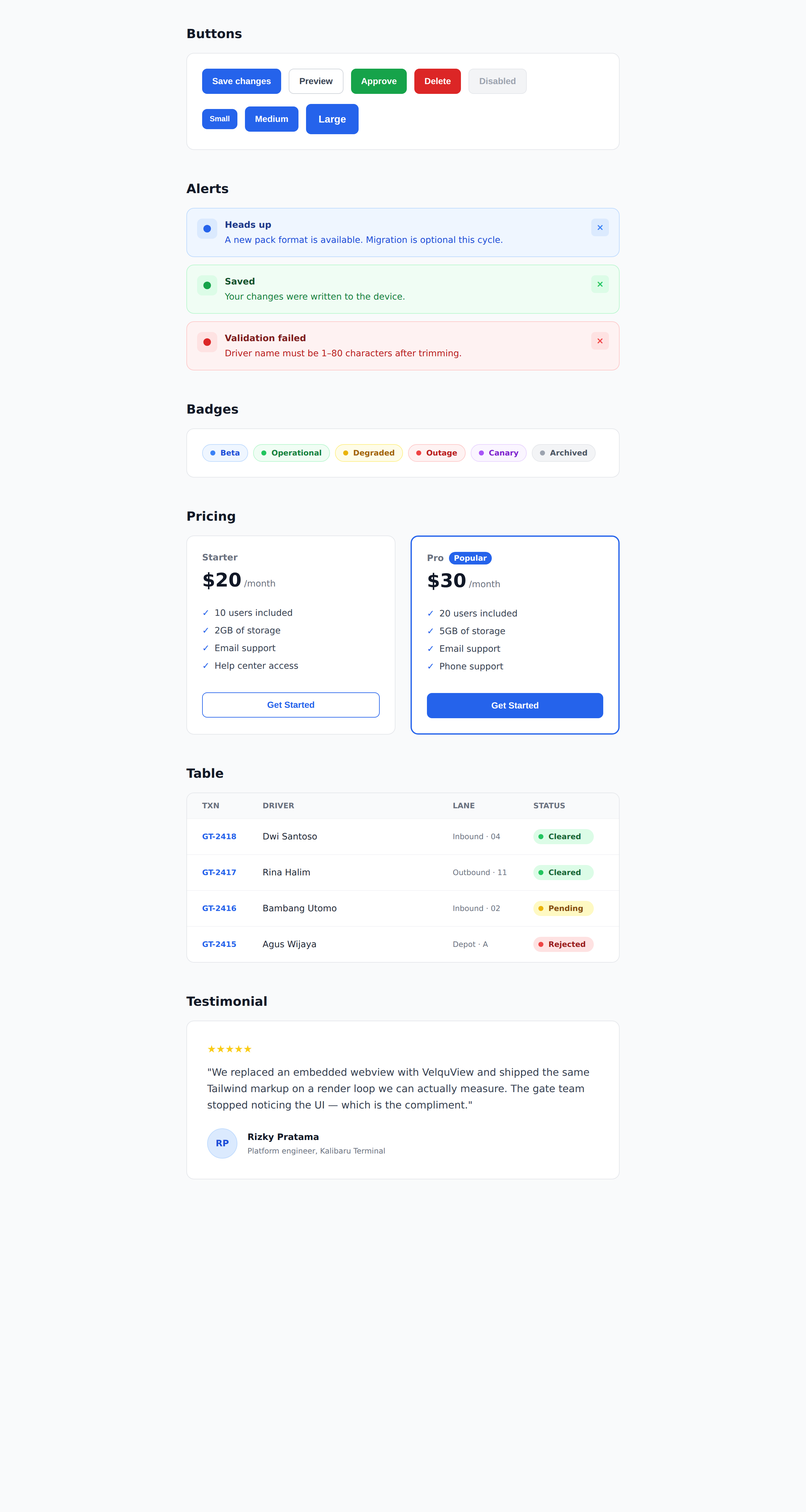
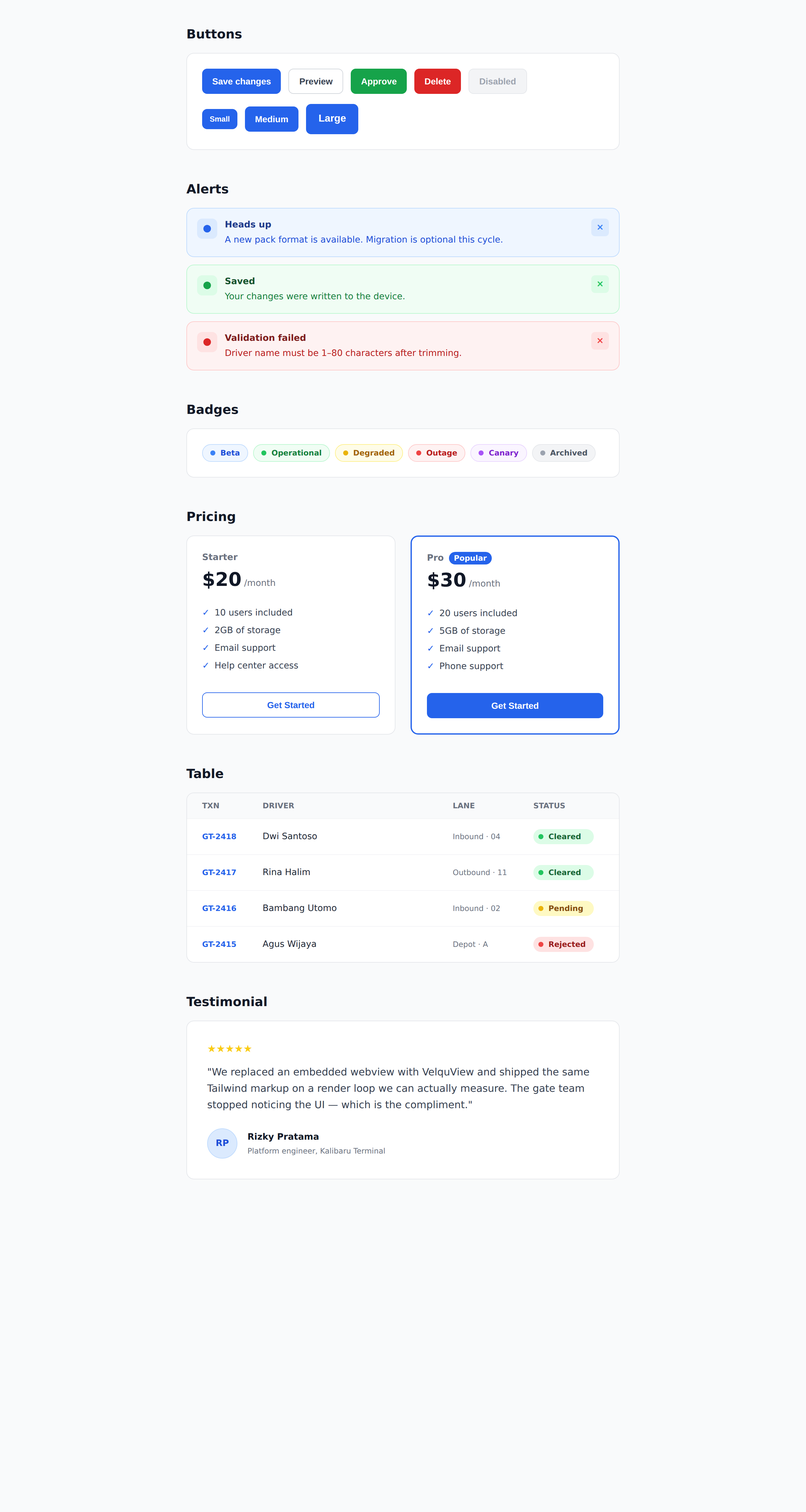
buttons: add text-center (v0 has no UA button alignment) + labeled compare frames
- login/ab/chat/live: every <button> now carries text-center — Chromium
  centers button text via its UA stylesheet, VelquView v0 does not, so
  labels sat at the left edge in the desktop renders (owner-reported on
  the sign-in card). No-op in the browser, files stay shared.
- Re-rendered login/ab/chat at 2x both engines (tools/ab-shot.mjs,
  committed: builds the browser copy, compiles tw v3.4.17 + parity base,
  shoots @2x). Verified: velqu old-vs-new differs ONLY inside button
  bands; browser glyph positions identical (ink corr 1.000 @ shift 0);
  login label now centers at +0.5px (browser +1.5px).
- compare.png rebuilt for all five sets with a labeled template:
  BROWSER (left) / DESKTOP (right) header bars.
- site: split window-frame title bar over every compare slider (hero +
  5 samples); seam tracks --pos with the divider (verified 793==793),
  traffic dots = browser side, violet gem = desktop side; mobile shows
  short labels, 0px overflow.
- cookbook: button-alignment row in the adaptation table; README: A/B
  sets + ab-shot.mjs documented.

diff --git a/site/samples.html b/site/samples.html
@@ -90,12 +90,16 @@
           </div>
           <span class="pill pill-green">geometry identical to the pixel</span>
         </div>
+<div class="ab-win">
+          <div class="ab-win-bar" aria-hidden="true">
+            <div class="ab-win-half ab-win-b"><span class="ab-dots"><i></i><i></i><i></i></span><span class="ab-win-t">browser<span class="ab-win-x"> · chromium + tailwind v3.4</span></span></div>
+            <div class="ab-win-half ab-win-v"><span class="ab-win-t"><span class="ab-win-x">velquview native ·&nbsp;</span>desktop app</span><span class="ab-win-gem"></span></div>
+          </div>
         <div class="ab-slider" style="--ar: 1280 / 800" role="slider" tabindex="0" aria-label="Sign-in card: Chromium versus VelquView" aria-valuemin="0" aria-valuemax="100" aria-valuenow="50">
           <img class="ab-base" src="assets/ab-login-browser.png" alt="Sign-in card rendered by Chromium" width="2560" height="1600" draggable="false" loading="lazy" decoding="async">
           <div class="ab-overlay"><img src="assets/ab-login-velqu.png" alt="The same card rendered by VelquView" width="2560" height="1600" draggable="false" loading="lazy" decoding="async"></div>
           <div class="ab-divider"><div class="ab-handle"><svg class="w-4 h-4" fill="none" stroke="currentColor" stroke-width="2.5" viewBox="0 0 24 24"><path d="M8 7l-5 5 5 5M16 7l5 5-5 5"/></svg></div></div>
-          <div class="ab-tag ab-tag-l">CHROMIUM · real Tailwind v3.4</div>
-          <div class="ab-tag ab-tag-r">VELQUVIEW · native v0</div>
+        </div>
         </div>
         <p class="mt-3 text-sm text-slate-500">Card at exactly x 450–830, y 204–594 in both engines. <a class="link" href="https://github.com/ther12k/velqu-showcase/blob/main/login/compare.png">Full side-by-side on GitHub →</a></p>
       </div>
@@ -109,12 +113,16 @@
           </div>
           <span class="pill pill-green">4 of 6 sections at 0px drift</span>
         </div>
+<div class="ab-win">
+          <div class="ab-win-bar" aria-hidden="true">
+            <div class="ab-win-half ab-win-b"><span class="ab-dots"><i></i><i></i><i></i></span><span class="ab-win-t">browser<span class="ab-win-x"> · chromium + tailwind v3.4</span></span></div>
+            <div class="ab-win-half ab-win-v"><span class="ab-win-t"><span class="ab-win-x">velquview native ·&nbsp;</span>desktop app</span><span class="ab-win-gem"></span></div>
+          </div>
         <div class="ab-slider" style="--ar: 1280 / 2400" role="slider" tabindex="0" aria-label="Component stack: Chromium versus VelquView" aria-valuemin="0" aria-valuemax="100" aria-valuenow="50">
           <img class="ab-base" src="assets/smp-ab-browser.webp" alt="Component stack rendered by Chromium" width="2560" height="4800" draggable="false" loading="lazy" decoding="async">
           <div class="ab-overlay"><img src="assets/smp-ab-velqu.webp" alt="The same stack rendered by VelquView" width="2560" height="4800" draggable="false" loading="lazy" decoding="async"></div>
           <div class="ab-divider"><div class="ab-handle"><svg class="w-4 h-4" fill="none" stroke="currentColor" stroke-width="2.5" viewBox="0 0 24 24"><path d="M8 7l-5 5 5 5M16 7l5 5-5 5"/></svg></div></div>
-          <div class="ab-tag ab-tag-l">CHROMIUM · real Tailwind v3.4</div>
-          <div class="ab-tag ab-tag-r">VELQUVIEW · native v0</div>
+        </div>
         </div>
         <p class="mt-3 text-sm text-slate-500">Max drift 4px across all six sections — text metrics alone. <a class="link" href="https://github.com/ther12k/velqu-showcase/blob/main/ab/compare.png">Full side-by-side on GitHub →</a></p>
       </div>
@@ -128,12 +136,16 @@
           </div>
           <span class="pill pill-green">bubbles exact, both engines</span>
         </div>
+<div class="ab-win">
+          <div class="ab-win-bar" aria-hidden="true">
+            <div class="ab-win-half ab-win-b"><span class="ab-dots"><i></i><i></i><i></i></span><span class="ab-win-t">browser<span class="ab-win-x"> · chromium + tailwind v3.4</span></span></div>
+            <div class="ab-win-half ab-win-v"><span class="ab-win-t"><span class="ab-win-x">velquview native ·&nbsp;</span>desktop app</span><span class="ab-win-gem"></span></div>
+          </div>
         <div class="ab-slider" style="--ar: 1280 / 800" role="slider" tabindex="0" aria-label="Chat UI: Chromium versus VelquView" aria-valuemin="0" aria-valuemax="100" aria-valuenow="50">
           <img class="ab-base" src="assets/smp-chat-browser.webp" alt="Chat UI rendered by Chromium" width="2560" height="1600" draggable="false" loading="lazy" decoding="async">
           <div class="ab-overlay"><img src="assets/smp-chat-velqu.webp" alt="The same chat UI rendered by VelquView" width="2560" height="1600" draggable="false" loading="lazy" decoding="async"></div>
           <div class="ab-divider"><div class="ab-handle"><svg class="w-4 h-4" fill="none" stroke="currentColor" stroke-width="2.5" viewBox="0 0 24 24"><path d="M8 7l-5 5 5 5M16 7l5 5-5 5"/></svg></div></div>
-          <div class="ab-tag ab-tag-l">CHROMIUM · real Tailwind v3.4</div>
-          <div class="ab-tag ab-tag-r">VELQUVIEW · native v0</div>
+        </div>
         </div>
         <p class="mt-3 text-sm text-slate-500">Outgoing bubbles via flex-row-reverse land at identical coordinates in taffy and Chromium. <a class="link" href="https://github.com/ther12k/velqu-showcase/blob/main/chat/compare.png">Full side-by-side on GitHub →</a></p>
       </div>
@@ -147,12 +159,16 @@
           </div>
           <span class="pill pill-green">full page, no layout divergence</span>
         </div>
+<div class="ab-win">
+          <div class="ab-win-bar" aria-hidden="true">
+            <div class="ab-win-half ab-win-b"><span class="ab-dots"><i></i><i></i><i></i></span><span class="ab-win-t">browser<span class="ab-win-x"> · chromium + tailwind v3.4</span></span></div>
+            <div class="ab-win-half ab-win-v"><span class="ab-win-t"><span class="ab-win-x">velquview native ·&nbsp;</span>desktop app</span><span class="ab-win-gem"></span></div>
+          </div>
         <div class="ab-slider" style="--ar: 1280 / 2000" role="slider" tabindex="0" aria-label="Windmill dashboard: Chromium versus VelquView" aria-valuemin="0" aria-valuemax="100" aria-valuenow="50">
           <img class="ab-base" src="assets/smp-windmill-browser.webp" alt="Windmill dashboard rendered by Chromium" width="2560" height="4000" draggable="false" loading="lazy" decoding="async">
           <div class="ab-overlay"><img src="assets/smp-windmill-velqu.webp" alt="The same dashboard rendered by VelquView" width="2560" height="4000" draggable="false" loading="lazy" decoding="async"></div>
           <div class="ab-divider"><div class="ab-handle"><svg class="w-4 h-4" fill="none" stroke="currentColor" stroke-width="2.5" viewBox="0 0 24 24"><path d="M8 7l-5 5 5 5M16 7l5 5-5 5"/></svg></div></div>
-          <div class="ab-tag ab-tag-l">CHROMIUM · real Tailwind v3.4</div>
-          <div class="ab-tag ab-tag-r">VELQUVIEW · native v0</div>
+        </div>
         </div>
         <p class="mt-3 text-sm text-slate-500">CTA card identical to the pixel; sections start at the same y; +6px cumulative text-metric drift. <a class="link" href="https://github.com/ther12k/velqu-showcase/blob/main/windmill/compare.png">Full side-by-side on GitHub →</a></p>
       </div>
@@ -166,12 +182,16 @@
           </div>
           <span class="pill pill-green">all 5 sections at 0px</span>
         </div>
+<div class="ab-win">
+          <div class="ab-win-bar" aria-hidden="true">
+            <div class="ab-win-half ab-win-b"><span class="ab-dots"><i></i><i></i><i></i></span><span class="ab-win-t">browser<span class="ab-win-x"> · chromium + tailwind v3.4</span></span></div>
+            <div class="ab-win-half ab-win-v"><span class="ab-win-t"><span class="ab-win-x">velquview native ·&nbsp;</span>desktop app</span><span class="ab-win-gem"></span></div>
+          </div>
         <div class="ab-slider" style="--ar: 1280 / 1600" role="slider" tabindex="0" aria-label="Navigation and feedback: Chromium versus VelquView" aria-valuemin="0" aria-valuemax="100" aria-valuenow="50">
           <img class="ab-base" src="assets/smp-flows-browser.webp" alt="Navigation and feedback components rendered by Chromium" width="2560" height="3200" draggable="false" loading="lazy" decoding="async">
           <div class="ab-overlay"><img src="assets/smp-flows-velqu.webp" alt="The same components rendered by VelquView" width="2560" height="3200" draggable="false" loading="lazy" decoding="async"></div>
           <div class="ab-divider"><div class="ab-handle"><svg class="w-4 h-4" fill="none" stroke="currentColor" stroke-width="2.5" viewBox="0 0 24 24"><path d="M8 7l-5 5 5 5M16 7l5 5-5 5"/></svg></div></div>
-          <div class="ab-tag ab-tag-l">CHROMIUM · real Tailwind v3.4</div>
-          <div class="ab-tag ab-tag-r">VELQUVIEW · native v0</div>
+        </div>
         </div>
         <p class="mt-3 text-sm text-slate-500">Every section band identical to the pixel — steps, connector bars, progress fills, toast rows, pagination strip. <a class="link" href="https://github.com/ther12k/velqu-showcase/blob/main/flows/compare.png">Full side-by-side on GitHub →</a></p>
       </div>
@@ -206,6 +226,7 @@
         var pos = 50;
         var set = function (p) {
           sl.style.setProperty("--pos", p + "%");
+          if (sl.parentElement && sl.parentElement.classList.contains("ab-win")) sl.parentElement.style.setProperty("--pos", p + "%");
           sl.setAttribute("aria-valuenow", String(Math.round(p)));
           pos = p;
         };

diff --git a/live/index.html b/live/index.html
@@ -118,8 +118,8 @@
             <h1 class="text-4xl font-extrabold text-slate-900 m-0 mt-6 leading-tight">The Tailwind showcase, rendered without a browser.</h1>
             <p class="text-base text-slate-600 m-0 mt-4">Every sample on this page is laid out with taffy, rasterized with fontdue and presented through softbuffer — VelquView's native Tailwind v0 engine. Pick a section on the left, or scroll everything below.</p>
             <div class="mt-6 flex gap-3">
-              <button @click="current = 'buttons'" class="h-10 px-5 rounded-md bg-sky-600 text-white text-sm font-semibold border-none">Browse components</button>
-              <button @click="current = 'header'" class="h-10 px-5 rounded-md bg-white text-slate-700 text-sm font-semibold border border-slate-300">See HyperUI ports</button>
+              <button @click="current = 'buttons'" class="text-center h-10 px-5 rounded-md bg-sky-600 text-white text-sm font-semibold border-none">Browse components</button>
+              <button @click="current = 'header'" class="text-center h-10 px-5 rounded-md bg-white text-slate-700 text-sm font-semibold border border-slate-300">See HyperUI ports</button>
             </div>
             <div class="mt-8 grid grid-cols-3 gap-4">
               <div class="p-4 bg-white rounded-lg border border-slate-200">
@@ -146,17 +146,17 @@
             <div class="mt-6 p-5 bg-white rounded-lg border border-slate-200">
               <p class="text-xs font-semibold text-slate-400 m-0">Variants</p>
               <div class="flex flex-wrap gap-3 mt-3 items-center">
-                <button class="h-9 px-4 rounded-md bg-sky-600 text-white text-sm font-medium border-none">Save changes</button>
-                <button class="h-9 px-4 rounded-md bg-white text-slate-700 text-sm font-medium border border-slate-300">Preview</button>
-                <button class="h-9 px-4 rounded-md bg-slate-100 text-slate-600 text-sm font-medium border-none">Duplicate</button>
-                <button class="h-9 px-4 rounded-md bg-red-600 text-white text-sm font-medium border-none">Delete</button>
-                <button class="h-9 px-4 rounded-md bg-slate-100 text-slate-400 text-sm font-medium border border-slate-200">Disabled</button>
+                <button class="text-center h-9 px-4 rounded-md bg-sky-600 text-white text-sm font-medium border-none">Save changes</button>
+                <button class="text-center h-9 px-4 rounded-md bg-white text-slate-700 text-sm font-medium border border-slate-300">Preview</button>
+                <button class="text-center h-9 px-4 rounded-md bg-slate-100 text-slate-600 text-sm font-medium border-none">Duplicate</button>
+                <button class="text-center h-9 px-4 rounded-md bg-red-600 text-white text-sm font-medium border-none">Delete</button>
+                <button class="text-center h-9 px-4 rounded-md bg-slate-100 text-slate-400 text-sm font-medium border border-slate-200">Disabled</button>
               </div>
               <p class="text-xs font-semibold text-slate-400 m-0 mt-5">Sizes</p>
               <div class="flex flex-wrap gap-3 mt-3 items-center">
-                <button class="h-8 px-3 rounded-md bg-sky-600 text-white text-xs font-medium border-none">Small</button>
-                <button class="h-9 px-4 rounded-md bg-sky-600 text-white text-sm font-medium border-none">Medium</button>
-                <button class="h-11 px-5 rounded-md bg-sky-600 text-white text-base font-medium border-none">Large</button>
+                <button class="text-center h-8 px-3 rounded-md bg-sky-600 text-white text-xs font-medium border-none">Small</button>
+                <button class="text-center h-9 px-4 rounded-md bg-sky-600 text-white text-sm font-medium border-none">Medium</button>
+                <button class="text-center h-11 px-5 rounded-md bg-sky-600 text-white text-base font-medium border-none">Large</button>
               </div>
             </div>
           </section>
@@ -215,8 +215,8 @@
                   <input type="text" value="locked-in-demo" readonly class="mt-2 h-10 w-full rounded-md border border-slate-200 bg-slate-50 px-3 text-sm text-slate-400">
                 </div>
                 <div class="flex gap-3 mt-1">
-                  <button class="h-9 px-4 rounded-md bg-sky-600 text-white text-sm font-medium border-none">Save</button>
-                  <button class="h-9 px-4 rounded-md bg-white text-slate-700 text-sm font-medium border border-slate-300">Cancel</button>
+                  <button class="text-center h-9 px-4 rounded-md bg-sky-600 text-white text-sm font-medium border-none">Save</button>
+                  <button class="text-center h-9 px-4 rounded-md bg-white text-slate-700 text-sm font-medium border border-slate-300">Cancel</button>
                 </div>
               </div>
             </div>

diff --git a/ab/index.html b/ab/index.html
@@ -21,16 +21,16 @@
         <h2 class="text-xl font-semibold text-gray-900 m-0">Buttons</h2>
         <div class="mt-4 bg-white border border-gray-200 rounded-xl p-6 flex flex-col gap-4">
           <div class="flex flex-wrap gap-3 items-center">
-            <button class="h-10 px-4 rounded-lg bg-blue-600 text-white text-sm font-semibold border-none">Save changes</button>
-            <button class="h-10 px-4 rounded-lg bg-white text-gray-700 text-sm font-semibold border border-gray-300">Preview</button>
-            <button class="h-10 px-4 rounded-lg bg-green-600 text-white text-sm font-semibold border-none">Approve</button>
-            <button class="h-10 px-4 rounded-lg bg-red-600 text-white text-sm font-semibold border-none">Delete</button>
-            <button class="h-10 px-4 rounded-lg bg-gray-100 text-gray-400 text-sm font-semibold border border-gray-200">Disabled</button>
+            <button class="text-center h-10 px-4 rounded-lg bg-blue-600 text-white text-sm font-semibold border-none">Save changes</button>
+            <button class="text-center h-10 px-4 rounded-lg bg-white text-gray-700 text-sm font-semibold border border-gray-300">Preview</button>
+            <button class="text-center h-10 px-4 rounded-lg bg-green-600 text-white text-sm font-semibold border-none">Approve</button>
+            <button class="text-center h-10 px-4 rounded-lg bg-red-600 text-white text-sm font-semibold border-none">Delete</button>
+            <button class="text-center h-10 px-4 rounded-lg bg-gray-100 text-gray-400 text-sm font-semibold border border-gray-200">Disabled</button>
           </div>
           <div class="flex flex-wrap gap-3 items-center">
-            <button class="h-8 px-3 rounded-lg bg-blue-600 text-white text-xs font-semibold border-none">Small</button>
-            <button class="h-10 px-4 rounded-lg bg-blue-600 text-white text-sm font-semibold border-none">Medium</button>
-            <button class="h-12 px-5 rounded-lg bg-blue-600 text-white text-base font-semibold border-none">Large</button>
+            <button class="text-center h-8 px-3 rounded-lg bg-blue-600 text-white text-xs font-semibold border-none">Small</button>
+            <button class="text-center h-10 px-4 rounded-lg bg-blue-600 text-white text-sm font-semibold border-none">Medium</button>
+            <button class="text-center h-12 px-5 rounded-lg bg-blue-600 text-white text-base font-semibold border-none">Large</button>
           </div>
         </div>
       </section>
@@ -98,7 +98,7 @@
               <div class="flex items-center gap-2"><div class="text-sm font-bold text-blue-600 m-0">✓</div><div class="text-sm text-gray-700 m-0">Email support</div></div>
               <div class="flex items-center gap-2"><div class="text-sm font-bold text-blue-600 m-0">✓</div><div class="text-sm text-gray-700 m-0">Help center access</div></div>
             </div>
-            <button class="mt-8 h-10 rounded-lg bg-white border border-blue-600 text-blue-600 text-sm font-semibold">Get Started</button>
+            <button class="text-center mt-8 h-10 rounded-lg bg-white border border-blue-600 text-blue-600 text-sm font-semibold">Get Started</button>
           </div>
           <div class="bg-white border-2 border-blue-600 rounded-xl p-6 flex flex-col">
             <div class="flex items-center gap-2"><div class="text-sm font-semibold text-gray-500 m-0">Pro</div><div class="px-2 h-5 rounded-full bg-blue-600 flex items-center"><div class="text-xs font-semibold text-white m-0">Popular</div></div></div>
@@ -109,7 +109,7 @@
               <div class="flex items-center gap-2"><div class="text-sm font-bold text-blue-600 m-0">✓</div><div class="text-sm text-gray-700 m-0">Email support</div></div>
               <div class="flex items-center gap-2"><div class="text-sm font-bold text-blue-600 m-0">✓</div><div class="text-sm text-gray-700 m-0">Phone support</div></div>
             </div>
-            <button class="mt-8 h-10 rounded-lg bg-blue-600 border-none text-white text-sm font-semibold">Get Started</button>
+            <button class="text-center mt-8 h-10 rounded-lg bg-blue-600 border-none text-white text-sm font-semibold">Get Started</button>
           </div>
         </div>
       </section>

diff --git a/site/index.html b/site/index.html
@@ -121,14 +121,18 @@
           </div>
           <div class="pill pill-green hidden sm:inline-flex">measured drift: 0 px</div>
         </div>
+<div class="ab-win">
+          <div class="ab-win-bar" aria-hidden="true">
+            <div class="ab-win-half ab-win-b"><span class="ab-dots"><i></i><i></i><i></i></span><span class="ab-win-t">browser<span class="ab-win-x"> · chromium + tailwind v3.4</span></span></div>
+            <div class="ab-win-half ab-win-v"><span class="ab-win-t"><span class="ab-win-x">velquview native ·&nbsp;</span>desktop app</span><span class="ab-win-gem"></span></div>
+          </div>
         <div class="ab-slider" id="heroSlider" role="slider" tabindex="0" aria-label="Compare Chromium and VelquView renders" aria-valuemin="0" aria-valuemax="100" aria-valuenow="50">
           <img class="ab-base" src="assets/ab-login-browser.png" alt="Sign-in card rendered by Chromium with real Tailwind v3.4" width="2560" height="1600" draggable="false" fetchpriority="high">
           <div class="ab-overlay"><img src="assets/ab-login-velqu.png" alt="The same card rendered natively by VelquView" width="2560" height="1600" draggable="false" fetchpriority="high"></div>
           <div class="ab-divider"><div class="ab-handle">
             <svg class="w-4 h-4" fill="none" stroke="currentColor" stroke-width="2.5" viewBox="0 0 24 24"><path d="M8 7l-5 5 5 5M16 7l5 5-5 5"/></svg>
           </div></div>
-          <div class="ab-tag ab-tag-l">CHROMIUM · real Tailwind v3.4</div>
-          <div class="ab-tag ab-tag-r">VELQUVIEW · native v0</div>
+        </div>
         </div>
       </div>
 
@@ -599,6 +603,7 @@ reactive diagnostic: node 7 vx-show: expression has an unterminated string liter
         if (m) pos = Math.max(0, Math.min(100, Number(m[1])));
         var set = function (p) {
           sl.style.setProperty("--pos", p + "%");
+          if (sl.parentElement && sl.parentElement.classList.contains("ab-win")) sl.parentElement.style.setProperty("--pos", p + "%");
           sl.setAttribute("aria-valuenow", String(Math.round(p)));
           pos = p;
         };

diff --git a/site/app.css b/site/app.css
@@ -328,13 +328,39 @@ html.js .reveal:not(.revealed) { animation: vv-reveal-fail 0s 2.5s forwards; }
   box-shadow: 0 6px 20px rgba(139,92,246,0.5);
   pointer-events: none;
 }
-.ab-tag {
-  position: absolute; bottom: 12px;
+/* window frame: a split title bar above the slider. Each half labels its
+   side (browser left / desktop right) and the seam tracks --pos, so the
+   bar itself shows which engine you are looking at as you drag. */
+.ab-win { --pos: 50%; }
+.ab-win-bar {
+  position: relative;
+  display: flex;
+  height: 34px;
+  border: 1px solid var(--border);
+  border-bottom: 0;
+  border-radius: 14px 14px 0 0;
+  overflow: hidden;
   font: 600 11px/1 'Inter', system-ui;
-  padding: 7px 11px; border-radius: 999px;
-  color: #fff; background: rgba(2, 6, 23, 0.72);
-  border: 1px solid rgba(255,255,255,0.18);
-  pointer-events: none;
+  letter-spacing: 0.02em;
+  user-select: none;
 }
-.ab-tag-l { left: 12px; }
-.ab-tag-r { right: 12px; }
+.ab-win-half {
+  display: flex; align-items: center; gap: 8px;
+  padding: 0 12px; min-width: 0;
+  white-space: nowrap; overflow: hidden;
+}
+.ab-win-b { width: var(--pos); background: #0f172a; color: #e2e8f0; }
+.ab-win-v { flex: 1; justify-content: flex-end; background: linear-gradient(90deg, #191330, #211a40); color: #ede9fe; }
+.ab-win .ab-slider { border-radius: 0 0 18px 18px; }
+.ab-dots { display: flex; gap: 6px; flex: none; }
+.ab-dots i { width: 9px; height: 9px; border-radius: 50%; }
+.ab-dots i:nth-child(1) { background: #f87171; }
+.ab-dots i:nth-child(2) { background: #fbbf24; }
+.ab-dots i:nth-child(3) { background: #34d399; }
+.ab-win-gem { width: 9px; height: 9px; flex: none; background: #8b5cf6; transform: rotate(45deg); border-radius: 2px; }
+.ab-win-t { overflow: hidden; text-overflow: ellipsis; }
+@media (max-width: 640px) {
+  .ab-win-x { display: none; }
+  .ab-win-bar { height: 30px; }
+  .ab-win-half { gap: 6px; padding: 0 10px; }
+}

diff --git a/site/cookbook.html b/site/cookbook.html
@@ -97,6 +97,7 @@
             <thead><tr><th>Browser pattern</th><th>v0 replacement</th><th>Seen in</th></tr></thead>
             <tbody>
               <tr><td><code class="code-inline">shadow-sm/md/xs</code></td><td>1px <code class="code-inline">border</code>; emphasized cards use <code class="code-inline">border-2</code> in the accent color; dark UIs use tonal steps instead</td><td>pricing, windmill</td></tr>
+              <tr><td><code class="code-inline">&lt;button&gt;</code> label alignment</td><td>browsers center button text via the UA stylesheet; v0 does not — add <code class="code-inline">text-center</code> to every button (a no-op in Chromium, so the shared A/B file stays byte-identical for both engines)</td><td>sign-in card, component stack</td></tr>
               <tr><td><code class="code-inline">rounded-e-lg</code> (per-corner)</td><td>uniform <code class="code-inline">rounded-xl</code></td><td>chat bubbles</td></tr>
               <tr><td><code class="code-inline">mx-auto / ml-auto</code></td><td>center: parent <code class="code-inline">flex justify-center</code>; push-right: <code class="code-inline">justify-between</code> with a wrapper</td><td>all sets</td></tr>
               <tr><td><code class="code-inline">absolute</code> left-indicator bar</td><td>author CSS: <code class="code-inline">.vv-bar { border-left: 4px solid … }</code></td><td>windmill sidebar</td></tr>

diff --git a/chat/index.html b/chat/index.html
@@ -123,7 +123,7 @@
       <div class="px-6 py-4 flex items-center gap-3 vv-topline" data-vv-test="chat-input">
         <div class="w-10 h-10 rounded-lg bg-gray-100 border border-gray-200 flex items-center justify-center text-gray-500 text-lg font-bold m-0">+</div>
         <input type="text" placeholder="Write a message…" class="flex-1 h-10 rounded-lg bg-white border border-gray-300 px-4 text-sm text-gray-700">
-        <button class="h-10 px-5 rounded-lg bg-blue-600 text-white text-sm font-semibold border-none">Send</button>
+        <button class="text-center h-10 px-5 rounded-lg bg-blue-600 text-white text-sm font-semibold border-none">Send</button>
       </div>
     </section>
 

diff --git a/login/index.html b/login/index.html
@@ -39,7 +39,7 @@
         <div class="text-sm font-medium text-blue-700">Lost password?</div>
       </div>
 
-      <button type="submit" class="text-white bg-blue-700 border-none font-medium rounded-lg text-sm w-full h-10 mb-3" data-vv-test="login-submit">Login to your account</button>
+      <button type="submit" class="text-center text-white bg-blue-700 border-none font-medium rounded-lg text-sm w-full h-10 mb-3" data-vv-test="login-submit">Login to your account</button>
 
       <div class="text-sm font-medium text-gray-500 flex gap-1">Not registered?<div class="text-blue-700">Create account</div></div>
 

diff --git a/README.md b/README.md
@@ -78,6 +78,24 @@ Revert `Cargo.toml` to the accepted rev when done; the operator
 application and its pins are untouched by this procedure.
 
 
+## A/B sample sets (same HTML file, two engines)
+
+`login/`, `ab/`, `chat/`, `windmill/`, `flows/` each hold ONE
+`index.html` rendered twice: by VelquView (native v0 utilities, via the
+starter's `--app-dir --headless --scale 2.0`) and by Chromium with real
+Tailwind v3.4.17 compiled from that same file's classes plus the
+documented parity base. `app.css` is loaded by both engines (velqu
+auto-loads `*.css`; the browser copy links it). Each set carries a
+labeled `compare.png` (BROWSER left / DESKTOP right).
+
+    # browser reference for a set (builds the copy, compiles CSS, shoots @2x):
+    (cd tools && node ab-shot.mjs login 800)     # → out/ab-login-browser.png
+
+Measured results and the porting rules live in the site's cookbook;
+one rule worth repeating here: **browsers center `<button>` text via the
+UA stylesheet, v0 does not** — every button carries `text-center`
+(a no-op in Chromium, so the file stays shared byte-for-byte).
+
 ## Live view (browse the sample in the app itself)
 
 `live/` holds the same component coverage restructured for the app's
